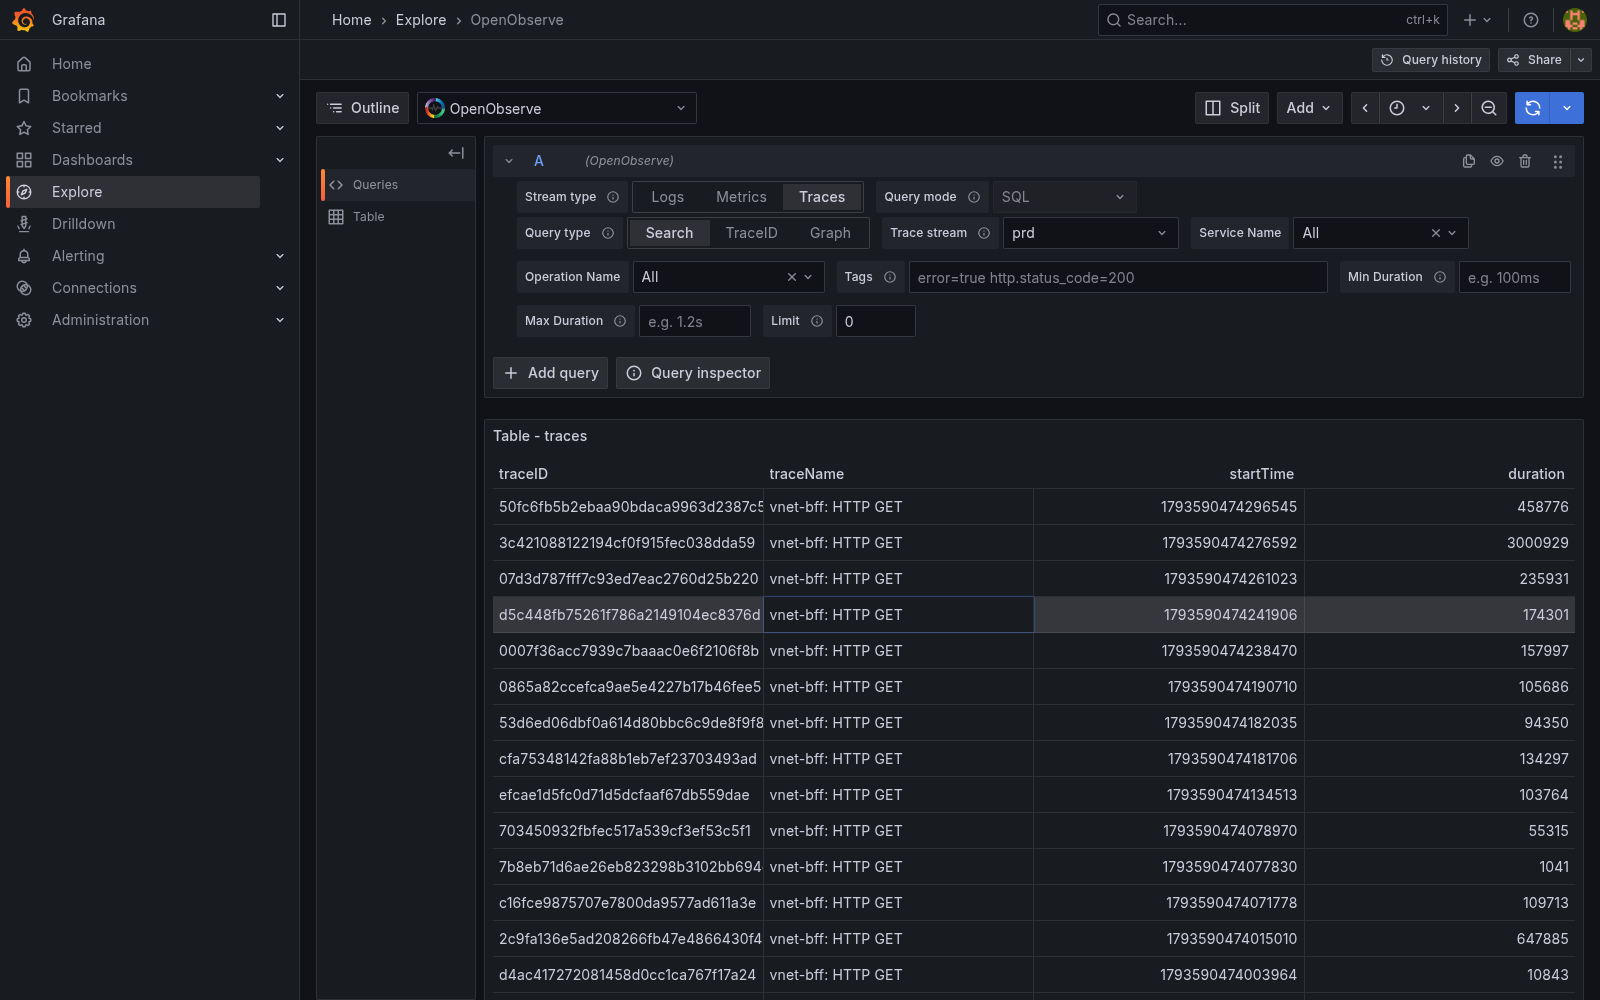
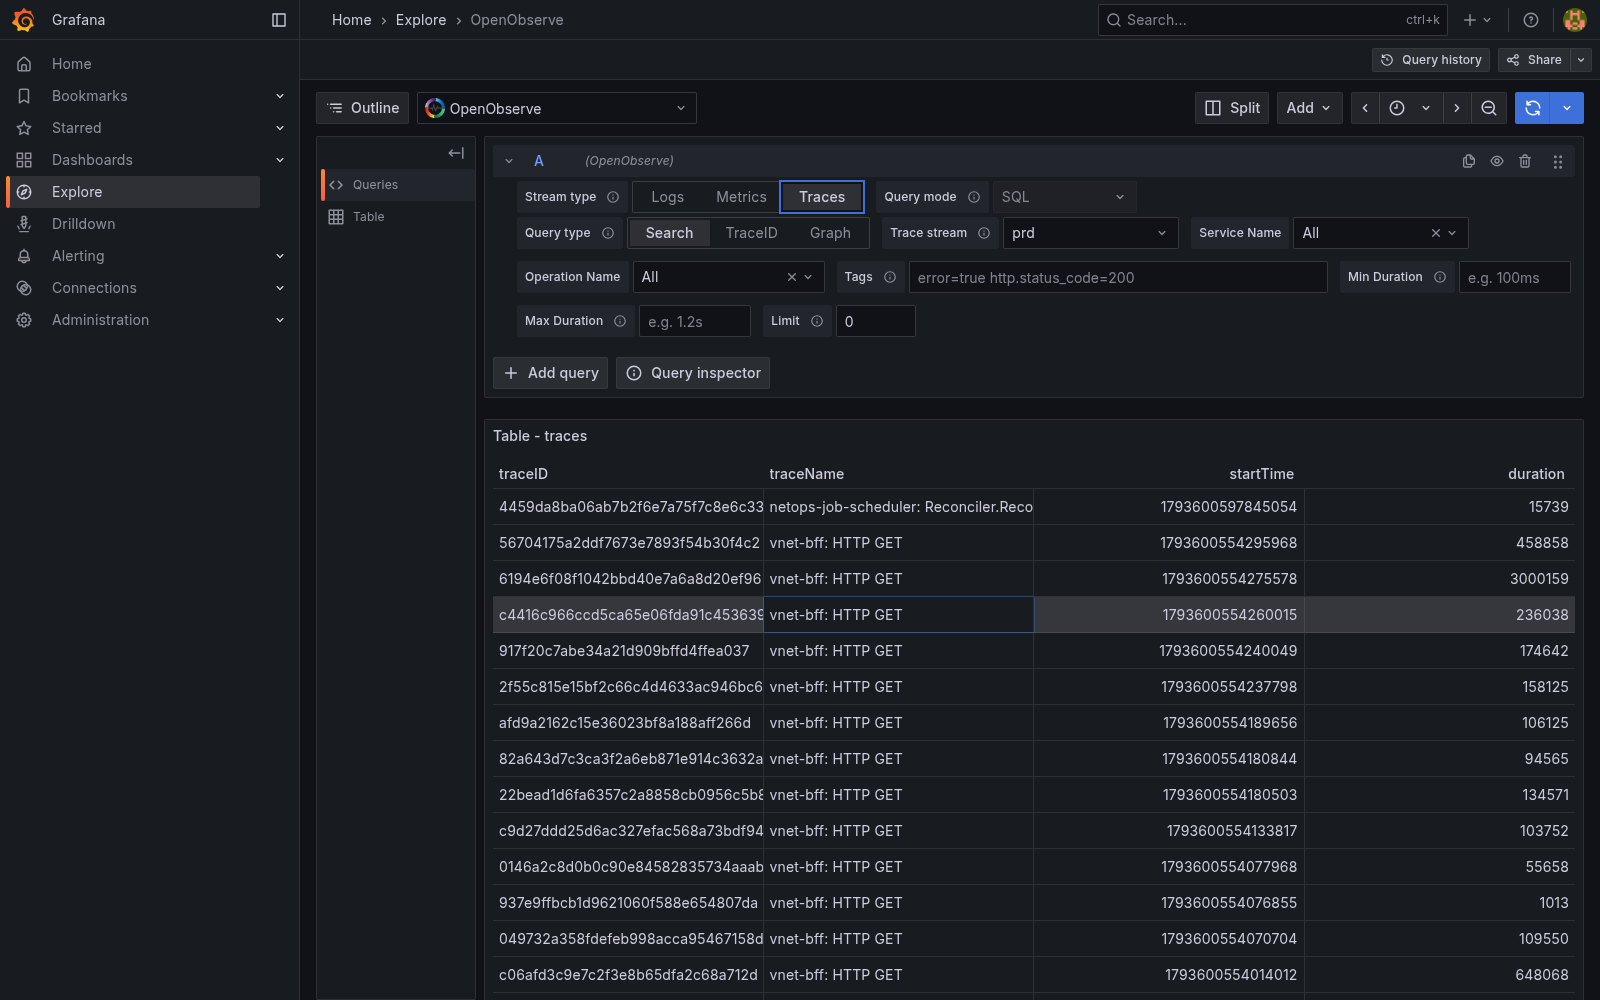
fix(ui): pick a stream that actually has data when the type changes
Switching the stream type adopted the first name in the catalogue, which
is not necessarily a live stream. The trace catalogue here starts with
"dev" (no rows in any recent window) while "prd" is the one writing, so a
freshly switched query looked broken until the stream was picked by hand.

pickDefaultStream now probes up to five candidates with a one-row query
in the panel's range and adopts the first that answers, falling back to
the first name so the picker is never left empty. Probing is best effort:
a failed probe just moves on to the next candidate.

Verified in the browser: switching Logs -> Traces now selects "prd" and
the panel shows 17 traces immediately, where it previously selected "dev"
and returned nothing.

Tests: 98 -> 100.

diff --git a/src/components/QueryEditor.tsx b/src/components/QueryEditor.tsx
@@ -54,6 +54,35 @@ const QUERY_MODES: Array<SelectableValue<'sql' | 'promql'>> = [
  * editor itself. Everything that knows about OpenObserve semantics lives in the
  * Go backend.
  */
+/**
+ * Chooses the stream to adopt when the user switches the stream type.
+ *
+ * The catalogue lists every stream of a type, including ones that are stale or
+ * empty, so the first name can be a dead end -- the trace catalogue here starts
+ * with "dev" (no rows) while "prd" is the live one. This probes at most a
+ * handful of candidates and returns the first with data, falling back to the
+ * first name so the picker is never left empty.
+ */
+async function pickDefaultStream(
+  names: string[],
+  streamType: StreamType,
+  datasource: OpenObserveDataSource,
+  range?: { from: number; to: number }
+): Promise<string> {
+  const candidates = names.slice(0, 5);
+  for (const name of candidates) {
+    try {
+      const has = await datasource.streamHasData(streamType, name, range);
+      if (has) {
+        return name;
+      }
+    } catch {
+      // Probing is best effort; fall through to the next candidate.
+    }
+  }
+  return names[0];
+}
+
 export function QueryEditorSQL(props: Props): React.JSX.Element {
   const { datasource, query, onChange, onRunQuery } = props;
 
@@ -100,7 +129,7 @@ export function QueryEditorSQL(props: Props): React.JSX.Element {
     let cancelled = false;
     datasource
       .listStreams(streamType)
-      .then(names => {
+      .then(async names => {
         if (cancelled) {
           return;
         }
@@ -112,7 +141,10 @@ export function QueryEditorSQL(props: Props): React.JSX.Element {
         // so the editor is immediately runnable.
         if (pendingAutoSelect.current && names.length > 0) {
           pendingAutoSelect.current = false;
-          const table = names[0];
+          // Trace catalogues list streams that may be empty (stale or unused),
+          // so the first name is not necessarily a useful default. Prefer a
+          // stream that actually has data in the panel's time range.
+          const table = await pickDefaultStream(names, streamType, datasource);
           const merged = { ...latestQuery.current, table, rawSql: retargetStream(latestQuery.current.rawSql ?? '', table) };
           latestQuery.current = merged;
           onChange(merged);

diff --git a/src/datasource.ts b/src/datasource.ts
@@ -7,6 +7,7 @@ import {
   GetTagResponse,
   ScopedVars,
 } from '@grafana/data';
+import { dateTime } from '@grafana/data';
 import { DataSourceWithBackend } from '@grafana/runtime';
 import {
   DEFAULT_QUERY,
@@ -231,6 +232,53 @@ export class OpenObserveDataSource extends DataSourceWithBackend<OpenObserveQuer
       return Array.isArray(values) ? values : [];
     } catch {
       return [];
+    }
+  }
+
+  /**
+   * Reports whether a stream has any row in the query's time range.
+   *
+   * Used to pick a useful default stream: catalogues include stale streams, and
+   * defaulting to an empty one makes a freshly switched query look broken.
+   */
+  async streamHasData(streamType: StreamType | string, stream: string, range?: { from: number; to: number }): Promise<boolean> {
+    const now = Date.now();
+    const to = range && range.to > 0 ? range.to : now;
+    const from = range && range.from > 0 ? range.from : to - 15 * 60 * 1000;
+    const probe: OpenObserveQuery = {
+      refId: 'probe',
+      queryType: streamType as OpenObserveQuery['queryType'],
+      queryMode: 'sql',
+      format: 'table',
+      // A one-row LIMIT is enough: the question is only "does anything exist?".
+      rawSql: `SELECT 1 AS present FROM "${stream.replace(/"/g, '""')}" LIMIT 1`,
+      size: 1,
+    };
+    try {
+      const response = await this.query({
+        targets: [probe],
+        range: { from: dateTime(from), to: dateTime(to), raw: { from: `now-15m`, to: 'now' } },
+        interval: '1m',
+        intervalMs: 60000,
+        maxDataPoints: 1,
+        scopedVars: {},
+        requestId: `probe-${stream}`,
+        timezone: 'utc',
+        app: CoreApp.Explore,
+        startTime: 0,
+      } as never);
+      const first = await new Promise<unknown>((resolve) => {
+        const sub = (response as { subscribe: (o: unknown) => { unsubscribe: () => void } }).subscribe({
+          next: (frame: { data?: Array<{ length?: number }> }) => {
+            resolve(frame?.data?.[0]?.length ?? 0);
+            sub.unsubscribe();
+          },
+          error: () => resolve(0),
+        });
+      });
+      return Number(first) > 0;
+    } catch {
+      return false;
     }
   }
 

diff --git a/src/datasource.test.ts b/src/datasource.test.ts
@@ -157,6 +157,28 @@ describe('OpenObserveDataSource', () => {
     });
   });
 
+  it('probes whether a stream has data in the given range', async () => {
+    const ds = newDatasource();
+    // The probe runs through query(), so stub the observable it returns.
+    const sub = { unsubscribe: jest.fn() };
+    const spy = jest.spyOn(ds, 'query').mockImplementation(
+      (() => ({ subscribe: (o: { next: (v: unknown) => void }) => { o.next({ data: [{ length: 3 }] }); return sub; } })) as never
+    );
+
+    await expect(ds.streamHasData('traces', 'prd', { from: 1000, to: 2000 })).resolves.toBe(true);
+    const target = (spy.mock.calls[0][0] as { targets: Array<{ rawSql: string; size: number }> }).targets[0];
+    expect(target.rawSql).toContain('FROM "prd"');
+    expect(target.size).toBe(1);
+  });
+
+  it('reports no data when the probe returns an empty frame', async () => {
+    const ds = newDatasource();
+    jest.spyOn(ds, 'query').mockImplementation(
+      (() => ({ subscribe: (o: { next: (v: unknown) => void }) => { o.next({ data: [{ length: 0 }] }); return { unsubscribe: jest.fn() }; } })) as never
+    );
+    await expect(ds.streamHasData('traces', 'dev')).resolves.toBe(false);
+  });
+
   it('derives the stream from the SQL when the query has no table set', async () => {
     // A hand-written SQL leaves `table` empty; the ad-hoc filter still has to
     // receive column names, so the stream is read out of the statement.

diff --git a/src/components/QueryEditor.test.tsx b/src/components/QueryEditor.test.tsx
@@ -66,6 +66,7 @@ function newDatasource(overrides: Record<string, unknown> = {}) {
     listStreamColumns: jest.fn().mockResolvedValue({ vnet_bff_dev: ['body', 'severity'], alerta: ['body'] }),
     listMetricNames: jest.fn().mockResolvedValue([]),
     distinctTraceValues: jest.fn().mockResolvedValue([]),
+    streamHasData: jest.fn().mockResolvedValue(true),
     ...overrides,
   } as unknown as OpenObserveDataSource;
   return ds;
